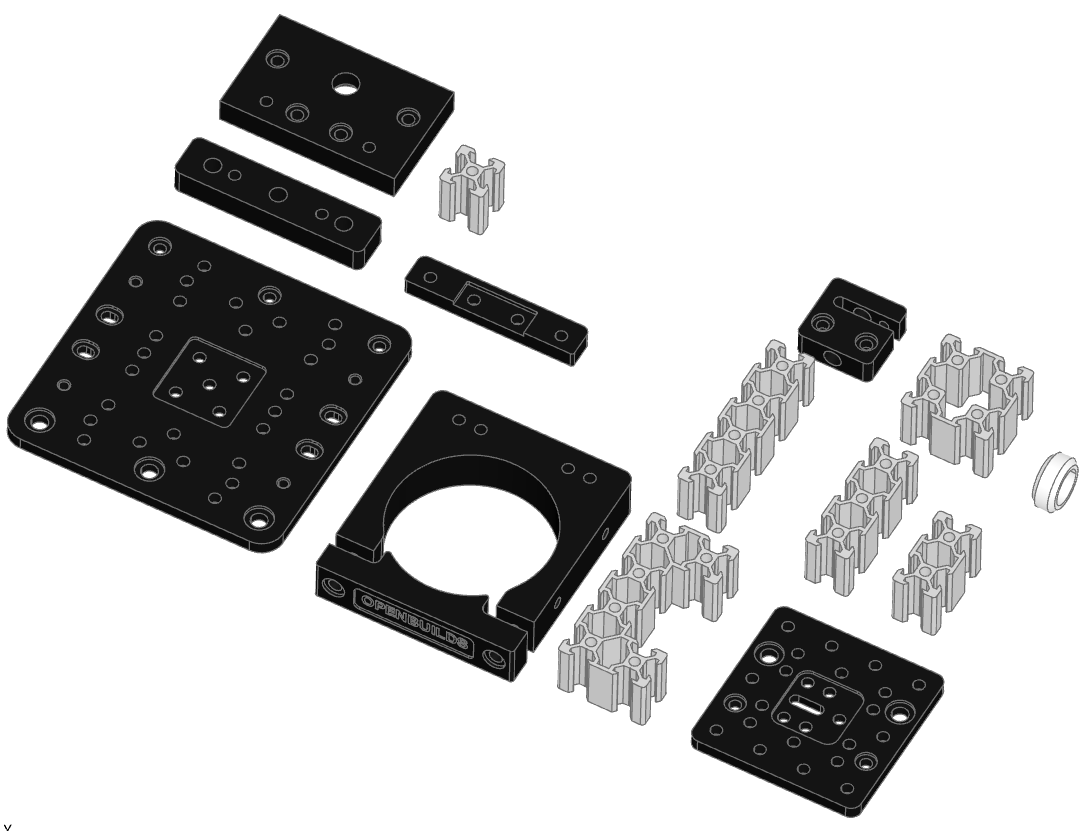
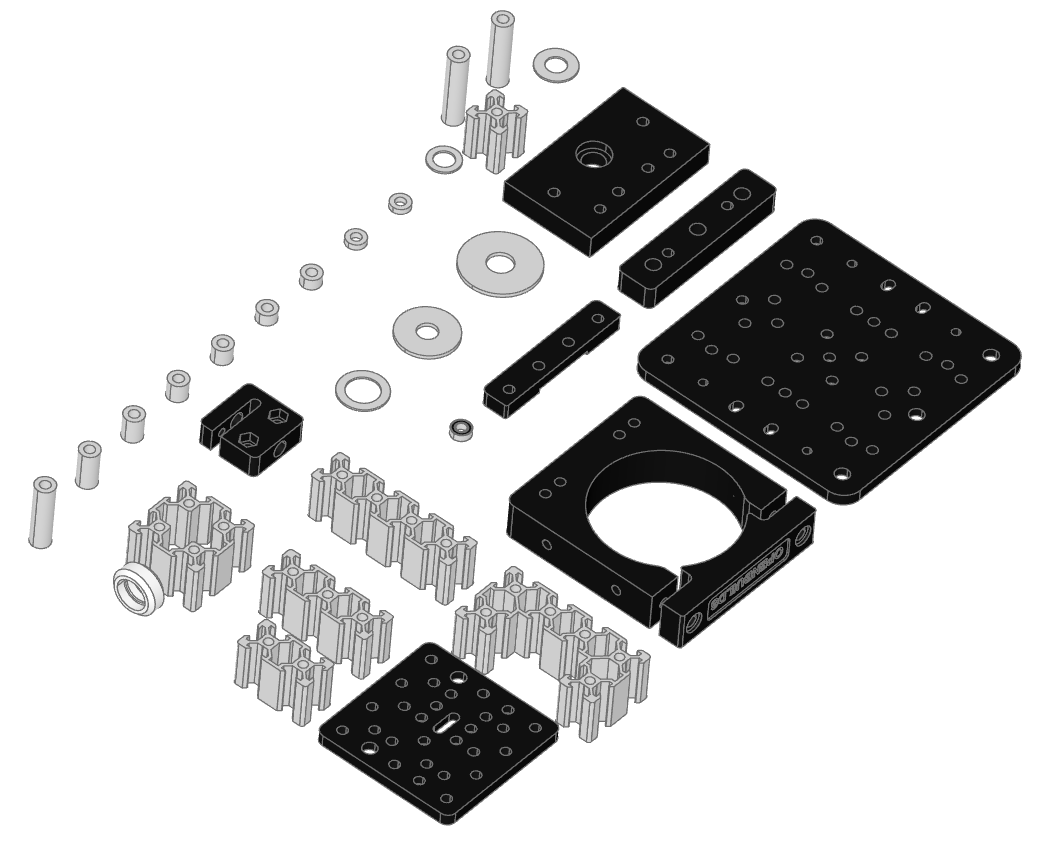
Added ShimWasher and AluminumSpacer

diff --git a/src/bd_warehouse/open_builds.py b/src/bd_warehouse/open_builds.py
@@ -31,6 +31,7 @@ from build123d import *
 from build123d import tuplify
 from typing import Union, Literal
 from bd_warehouse.fastener import SocketHeadCapScrew, ThreadedHole
+from bd_warehouse.bearing import SingleRowCappedDeepGrooveBallBearing
 
 CAVITY_RADIUS = 2.3 * MM
 FILLET_RADIUS = 1.5 * MM
@@ -106,6 +107,88 @@ class AcmeAntiBacklashNutBlock8mm(BasePartObject):
         super().__init__(block.part, rotation=rotation, align=align, mode=mode)
         self.color = Color(0x030303)
         self.label = "AcmeAntiBacklashNutBlock8mm"
+
+
+class AluminumSpacer(BasePartObject):
+    """Part Object: OpenBuilds AluminumSpacer
+
+    Aluminum spacers used throughout our system to ensure precision alignment and spacing
+    between components.
+
+    Product Features:
+        - Rigid to maintain stability during motion
+        - Lightweight, non-magnetic and corrosion resistance
+
+    Specifications:
+        - M5 ID
+        - Various Lengths
+        - 10mm OD
+        - Aluminum
+        - Color: Silver
+
+    Args:
+        length (Literal['3mm', '1/8in', '6mm', '1/4in', '9mm', '10mm', '13.2mm', '20mm', '35mm', '1-1/2in', '40mm']):
+            valid lengths
+        rotation (RotationLike, optional): angles to rotate about axes. Defaults to (0, 0, 0).
+        align (Union[Align, tuple[Align, Align, Align]], optional): align min, center,
+            or max of object. Defaults to (Align.CENTER, Align.CENTER, Align.MIN).
+        mode (Mode, optional): combine mode. Defaults to Mode.ADD.
+
+    Raises:
+        ValueError: Invalid shim_type
+    """
+
+    _applies_to = [BuildPart._tag]
+
+    def __init__(
+        self,
+        length: Literal[
+            "3mm",
+            "1/8in",
+            "6mm",
+            "1/4in",
+            "9mm",
+            "10mm",
+            "13.2mm",
+            "20mm",
+            "35mm",
+            "1-1/2in",
+            "40mm",
+        ],
+        rotation: RotationLike = (0, 0, 0),
+        align: Union[None, Align, tuple[Align, Align, Align]] = None,
+        mode: Mode = Mode.ADD,
+    ):
+
+        valid_lengths = {
+            "3mm": 3 * MM,
+            "1/8in": IN / 8,
+            "6mm": 6 * MM,
+            "1/4in": IN / 4,
+            "9mm": 9 * MM,
+            "10mm": 10 * MM,
+            "13.2mm": 13.2 * MM,
+            "20mm": 20 * MM,
+            "35mm": 35 * MM,
+            "1-1/2in": 1.5 * IN,
+            "40mm": 40 * MM,
+        }
+        try:
+            spacer_length = valid_lengths[length]
+        except KeyError:
+            raise ValueError(
+                f"{length} is an invalid length, must be one of {tuple(valid_lengths.keys())}"
+            )
+
+        with BuildPart() as spacer:
+            with BuildSketch():
+                Circle(5)
+                Circle(2.6, mode=Mode.SUBTRACT)
+            extrude(amount=spacer_length)
+
+        super().__init__(spacer.part, rotation=rotation, align=align, mode=mode)
+        self.color = Color(0xC0C0C0)
+        self.label = f"AluminumSpacer-{length}"
 
 
 class CBeamEndMount(BasePartObject):
@@ -519,7 +602,6 @@ class RouterSpindleMount(BasePartObject):
     easy installation and optional attachments like the OpenBuilds LED Light Ring.
 
     Product Features:
-
         - Removable faceplate for quick tool changes
         - Adjustable faceplate to accommodate various router sizes
         - Countersunk holes for a flush finish
@@ -639,6 +721,62 @@ class RouterSpindleMount(BasePartObject):
             RigidJoint(f"top_{label}", self, -pos)
         for label, pos in zip(["a", "b", "c", "d"], top_mount_centers):
             RigidJoint(f"bottom_{label}", self, pos * Pos(0, 0, -thickness))
+
+
+class ShimWasher(BasePartObject):
+    """Part Object: OpenBuilds Shim/Washer
+
+    Product Features:
+        - Reduce wear and prevents binding
+        - Creates a tighter fit among parts
+
+    Args:
+        shim_type (Literal['MiniVWheel', '10x5x1', '12x8x1', 'SlotWasher', 'FlatWasher']):
+            shim / washer
+        rotation (RotationLike, optional): angles to rotate about axes. Defaults to (0, 0, 0).
+        align (Union[Align, tuple[Align, Align, Align]], optional): align min, center,
+            or max of object. Defaults to (Align.CENTER, Align.CENTER, Align.MIN).
+        mode (Mode, optional): combine mode. Defaults to Mode.ADD.
+
+    Raises:
+        ValueError: Invalid shim_type
+    """
+
+    _applies_to = [BuildPart._tag]
+
+    def __init__(
+        self,
+        shim_type: Literal[
+            "MiniVWheel", "10x5x1", "12x8x1", "SlotWasher", "FlatWasher"
+        ],
+        rotation: RotationLike = (0, 0, 0),
+        align: Union[None, Align, tuple[Align, Align, Align]] = None,
+        mode: Mode = Mode.ADD,
+    ):
+        # OD, ID, Thickness
+        dimensions = {
+            "MiniVWheel": (8, 5, 1),
+            "10x5x1": (10, 5, 1),
+            "12x8x1": (12, 8, 1),
+            "SlotWasher": (15, 5, 2),
+            "FlatWasher": (0.75 * IN, 0.25 * IN, 0.08 * IN),
+        }
+        try:
+            od, id, thickness = dimensions[shim_type]
+        except KeyError:
+            raise ValueError(
+                f"Invalid shim_type {shim_type} must be one of {tuple(dimensions.keys())}"
+            )
+
+        with BuildPart() as shim:
+            with BuildSketch():
+                Circle(od)
+                Circle(id, mode=Mode.SUBTRACT)
+            extrude(amount=thickness)
+
+        super().__init__(shim.part, rotation=rotation, align=align, mode=mode)
+        self.color = Color(0xC0C0C0)
+        self.label = f"ShimWasher-{shim_type}"
 
 
 class SpacerBlock(BasePartObject):
@@ -990,12 +1128,29 @@ if __name__ == "__main__":
         pack(
             [
                 AcmeAntiBacklashNutBlock8mm(),
+                AluminumSpacer("3mm"),
+                AluminumSpacer("1/8in"),
+                AluminumSpacer("6mm"),
+                AluminumSpacer("1/4in"),
+                AluminumSpacer("9mm"),
+                AluminumSpacer("10mm"),
+                AluminumSpacer("13.2mm"),
+                AluminumSpacer("20mm"),
+                AluminumSpacer("35mm"),
+                AluminumSpacer("1-1/2in"),
+                AluminumSpacer("40mm"),
                 CBeamEndMount(),
                 CBeamLinearRail(25),
                 CBeamGantryPlate(),
                 CBeamGantryPlateXLarge(),
                 CBeamRiserPlate(),
                 RouterSpindleMount().rotate(Axis.Z, 180),
+                ShimWasher("MiniVWheel"),
+                ShimWasher("10x5x1"),
+                ShimWasher("12x8x1"),
+                ShimWasher("SlotWasher"),
+                ShimWasher("FlatWasher"),
+                SingleRowCappedDeepGrooveBallBearing("M5-10-4", "OpenBuilds"),
                 SpacerBlock(),
                 VSlotLinearRail("20x20", 25),
                 VSlotLinearRail("20x40", 25),

diff --git a/docs/openbuilds.rst b/docs/openbuilds.rst
@@ -20,6 +20,7 @@ Here are classes/parts provided:
 .. note:: All Joints are currently experimental and subject to change
 
 .. autoclass:: AcmeAntiBacklashNutBlock8mm
+.. autoclass:: AluminumSpacer
 .. autoclass:: CBeamEndMount
 .. autoclass:: CBeamGantryPlate
 .. autoclass:: CBeamGantryPlateXLarge
@@ -27,6 +28,7 @@ Here are classes/parts provided:
 .. autoclass:: CBeamLinearRailProfile
 .. autoclass:: CBeamRiserPlate
 .. autoclass:: RouterSpindleMount
+.. autoclass:: ShimWasher
 .. autoclass:: SpacerBlock
 .. autoclass:: VSlotLinearRail
 .. autoclass:: VSlotLinearRailProfile
